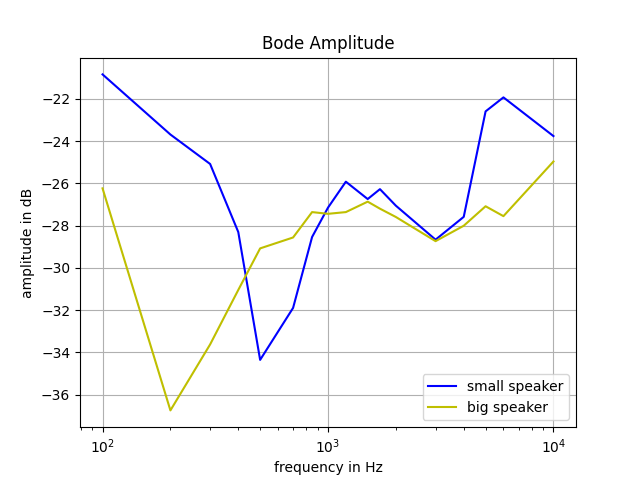
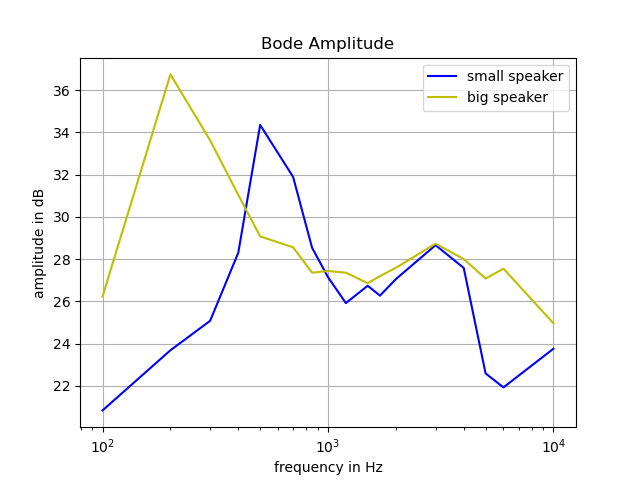
Fix negative amplitude in bode diagram

diff --git a/versuch_3/task_2_bode.py b/versuch_3/task_2_bode.py
@@ -6,9 +6,9 @@ import numpy as np
 if __name__ == "__main__":
     data = Task2()
 
-    amplitude_big = [20 * np.log10(1 / data.big_ptpbavg[x]) for x in range(0, len(data.big_ptpaavg))]
+    amplitude_big = [20 * np.log10(data.big_ptpbavg[x]) for x in range(0, len(data.big_ptpaavg))]
 
-    amplitude_small = [20 * np.log10(1 / data.small_ptpbavg[x])for x in range(0, len(data.small_ptpbavg))]
+    amplitude_small = [20 * np.log10(data.small_ptpbavg[x])for x in range(0, len(data.small_ptpbavg))]
 
     plt.plot(data.fq, amplitude_small, 'b', label='small speaker')
     plt.plot(data.fq, amplitude_big, 'y', label='big speaker')
